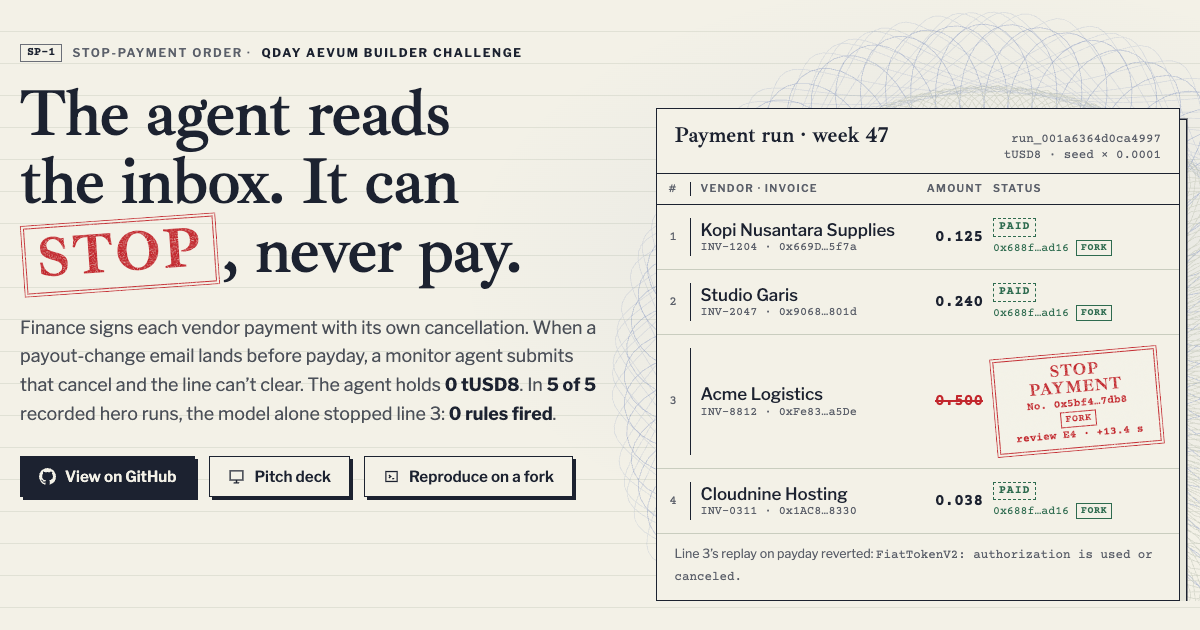
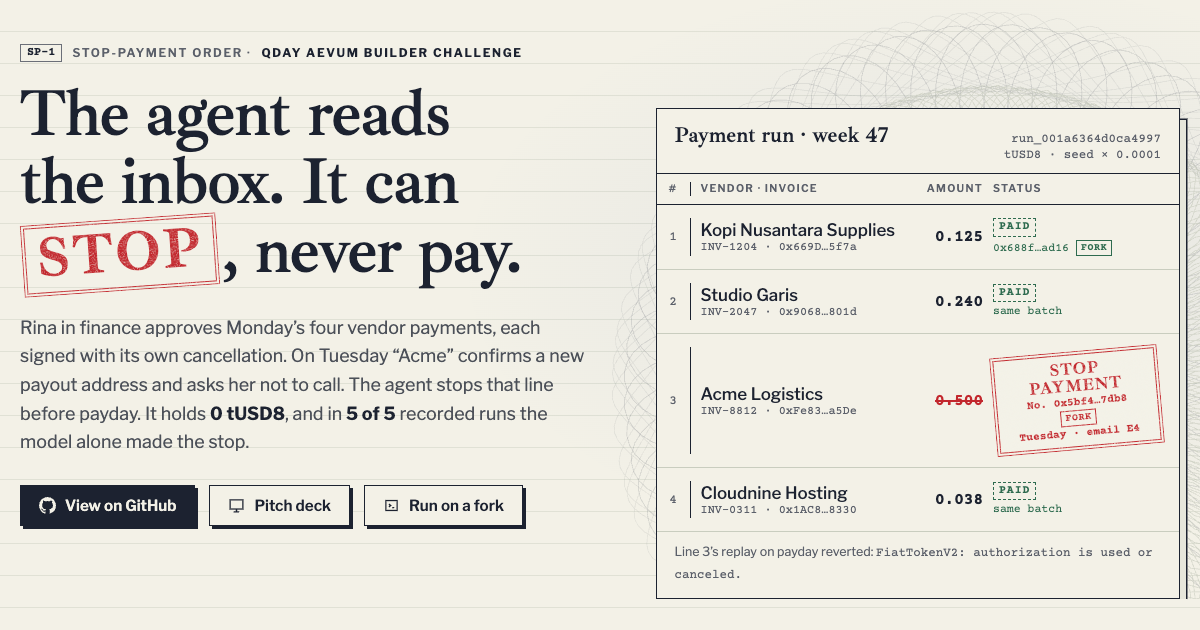
docs: landing + deck QA round 2 fixes
- hero subhead opens on the scenario (Rina, Acme's payout-change email); one-line fork disclosure
- stamp drops the since-start timer that read as a latency figure; lines 2 and 4 say 'same batch'
- '5 of 5' cites evidence/g4/hero-sonnet-5-5-cli.json; no ungreppable hash in the caption
- colour = state only (neutral deck margin rule and guilloche, ink check marks)
- deck slide 6: header + line-3 crop at full width, callouts on the serial and amount, run A / run B
- wording: payer cannot recall a landed payment; Rina in finance; re-issue with one click in demo mode;
  'Live, used on fork'; live run pending faucet funding (README lines 47 and 55 aligned)

diff --git a/docs/index.html b/docs/index.html
@@ -168,15 +168,14 @@ code, .data { font-family: var(--font-data); font-variant-numeric: tabular-nums;
 .rc { padding: 30px 22px 26px; border-right: 1px solid var(--rule); }
 .rc:first-child { padding-left: 0; } .rc:last-child { border-right: 0; }
 .rc .n { font: 700 clamp(2.4rem, 4.4vw, 3.6rem)/1 var(--font-data); font-variant-numeric: tabular-nums; letter-spacing: -.03em; }
-.rc .n.red { color: var(--after); }
-.rc .n.blue { color: var(--before); }
 .rc p { margin: 10px 0 8px; font-size: .95rem; line-height: 1.4; }
 .rc code { font-size: .72rem; color: var(--label); }
-.rnote { grid-column: 1 / -1; font-size: .8rem; color: var(--label); padding: 0 0 18px; margin: 0; max-width: 75ch; }
+.rnote { grid-column: 1 / -1; font-size: .8rem; color: var(--label); padding: 14px 0 18px; margin: 0; max-width: 75ch; }
 
 /* ── sections ── */
 section.blk { padding: 92px 0; }
 section[id] { scroll-margin-top: 62px; }
+section.blk.tight { padding-top: 20px; }
 .blk h2 { font: 600 clamp(2rem, 3.8vw, 3.2rem)/1.08 var(--font-display); letter-spacing: -.015em; margin: 12px 0 16px; text-wrap: balance; max-width: 22em; }
 .blk .lede { max-width: var(--measure); color: var(--ink-soft); font-size: 1.06rem; margin: 0 0 40px; }
 
@@ -245,7 +244,7 @@ figure { margin: 0; }
 .slip b { display: block; font: 600 .66rem/1.4 var(--font-body); letter-spacing: .12em; text-transform: uppercase; color: var(--label); }
 .slip.pay { border-left: 3px solid var(--before); } .slip.cx { border-left: 3px solid var(--after); }
 .powers { list-style: none; padding: 0; margin: 4px 0; font: .82rem/1.9 var(--font-data); }
-.powers li::before { content: "✓ "; color: color-mix(in srgb, var(--bg) 60%, var(--cleared)); }
+.powers li::before { content: "✓ "; color: var(--bg); }
 .powers li.x::before { content: "✗ "; color: color-mix(in srgb, var(--after) 55%, var(--bg)); }
 .icon { width: 38px; height: 38px; stroke: currentColor; fill: none; stroke-width: 1.6; }
 
@@ -371,11 +370,11 @@ figure.shot figcaption b { display: block; font: 600 1rem/1.3 var(--font-display
     <div class="copy">
       <div class="label"><span class="no">SP-1</span> <span class="opt">Stop-payment order ·</span> <b>QDay Aevum Builder Challenge</b></div>
       <h1>The agent reads the inbox. It can <span class="nw"><span class="stamp">stop</span>,</span> never pay.</h1>
-      <p class="sub">Finance signs each vendor payment with its own cancellation. When a payout-change email lands before payday, a monitor agent submits that cancel and the line can’t clear. The agent holds <strong>0 tUSD8</strong>. In <strong>5 of 5</strong> recorded hero runs, the model alone stopped line 3: <strong>0 rules fired</strong>.</p>
+      <p class="sub">Rina in finance approves Monday’s four vendor payments, each signed with its own cancellation. On Tuesday “Acme” confirms a new payout address and asks her not to call. The agent stops that line before payday. It holds <strong>0 tUSD8</strong>, and in <strong>5 of 5</strong> recorded runs the model alone made the stop.</p>
       <div class="ctas">
         <a class="btn primary" href="https://github.com/edycutjong/brake"><svg viewBox="0 0 16 16" fill="currentColor" aria-hidden="true"><path d="M8 0C3.58 0 0 3.58 0 8c0 3.54 2.29 6.53 5.47 7.59.4.07.55-.17.55-.38 0-.19-.01-.82-.01-1.49-2.01.37-2.53-.49-2.69-.94-.09-.23-.48-.94-.82-1.13-.28-.15-.68-.52-.01-.53.63-.01 1.08.58 1.23.82.72 1.21 1.87.87 2.33.66.07-.52.28-.87.51-1.07-1.78-.2-3.64-.89-3.64-3.95 0-.87.31-1.59.82-2.15-.08-.2-.36-1.02.08-2.12 0 0 .67-.21 2.2.82.64-.18 1.32-.27 2-.27.68 0 1.36.09 2 .27 1.53-1.04 2.2-.82 2.2-.82.44 1.1.16 1.92.08 2.12.51.56.82 1.27.82 2.15 0 3.07-1.87 3.75-3.65 3.95.29.25.54.73.54 1.48 0 1.07-.01 1.93-.01 2.2 0 .21.15.46.55.38A8.013 8.013 0 0016 8c0-4.42-3.58-8-8-8z"/></svg>View on GitHub</a>
         <a class="btn" href="pitch/"><svg viewBox="0 0 24 24" fill="none" stroke="currentColor" stroke-width="1.8" aria-hidden="true"><rect x="3" y="4" width="18" height="13"/><path d="M12 17v4M8 21h8"/></svg>Pitch deck</a>
-        <a class="btn" href="https://github.com/edycutjong/brake/blob/main/DEMO.md"><svg viewBox="0 0 24 24" fill="none" stroke="currentColor" stroke-width="1.8" aria-hidden="true"><path d="M4 5h16v14H4z"/><path d="M8 10l3 2-3 2M13 15h3"/></svg>Reproduce on a fork</a>
+        <a class="btn" href="https://github.com/edycutjong/brake/blob/main/DEMO.md"><svg viewBox="0 0 24 24" fill="none" stroke="currentColor" stroke-width="1.8" aria-hidden="true"><path d="M4 5h16v14H4z"/><path d="M8 10l3 2-3 2M13 15h3"/></svg>Run on a fork</a>
       </div>
     </div>
     <div class="meta">
@@ -383,17 +382,17 @@ figure.shot figcaption b { display: block; font: 600 1rem/1.3 var(--font-display
         <span class="cmd"><span id="cmdtext">pnpm fork:up &amp;&amp; pnpm demo:hero</span><button type="button" id="copy" aria-label="Copy the demo command">Copy</button></span>
         <span>121 tests · 0 agent-initiated transfers</span>
       </div>
-      <p class="status">Built and tested on an anvil fork of Aevum 44005 at real tUSD8 state. The live testnet run is scripted and waits on faucet funding, so every transaction hash on this page is labelled <span class="fork">FORK</span> and has no explorer link. The footer links only the live tUSD8 address.</p>
+      <p class="status">Ran on an anvil fork of Aevum 44005: transaction hashes are labelled <span class="fork">FORK</span> (<code>fork:</code> in the terminal) and have no explorer link. The live testnet run is pending faucet funding.</p>
     </div>
 
     <div class="register" aria-label="Payment run, week 47, from evidence/hero-fork.json">
       <header><h2>Payment run · week 47</h2><span>run_001a6364d0ca4997<br>tUSD8 · seed × 0.0001</span></header>
       <div class="rl head"><span>#</span><span>Vendor · invoice</span><span style="text-align:right">Amount</span><span>Status</span></div>
       <div class="rl"><span>1</span><span class="v">Kopi Nusantara Supplies<small>INV-1204 · 0x669D…5f7a</small></span><span class="amt">0.125</span><span class="st"><span class="paid">PAID</span><span class="h">0x688f…ad16 <span class="fork">FORK</span></span></span></div>
-      <div class="rl"><span>2</span><span class="v">Studio Garis<small>INV-2047 · 0x9068…801d</small></span><span class="amt">0.240</span><span class="st"><span class="paid">PAID</span><span class="h">0x688f…ad16 <span class="fork">FORK</span></span></span></div>
+      <div class="rl"><span>2</span><span class="v">Studio Garis<small>INV-2047 · 0x9068…801d</small></span><span class="amt">0.240</span><span class="st"><span class="paid">PAID</span><span class="h">same batch</span></span></div>
       <div class="rl stopped"><span>3</span><span class="v">Acme Logistics<small>INV-8812 · 0xFe83…a5De</small></span><span class="amt">0.500</span>
-        <span class="stamp bigstamp" role="img" aria-label="Stop payment, cancel tx 0x5bf4…7db8 on the fork">Stop payment<small>No. 0x5bf4…7db8 <span class="fork">FORK</span></small><small>review E4 · +13.4 s</small></span></div>
-      <div class="rl"><span>4</span><span class="v">Cloudnine Hosting<small>INV-0311 · 0x1AC8…8330</small></span><span class="amt">0.038</span><span class="st"><span class="paid">PAID</span><span class="h">0x688f…ad16 <span class="fork">FORK</span></span></span></div>
+        <span class="stamp bigstamp" role="img" aria-label="Stop payment, cancel tx 0x5bf4…7db8 on the fork">Stop payment<small>No. 0x5bf4…7db8 <span class="fork">FORK</span></small><small>Tuesday · email E4</small></span></div>
+      <div class="rl"><span>4</span><span class="v">Cloudnine Hosting<small>INV-0311 · 0x1AC8…8330</small></span><span class="amt">0.038</span><span class="st"><span class="paid">PAID</span><span class="h">same batch</span></span></div>
       <footer>Line 3’s replay on payday reverted: <code>FiatTokenV2: authorization is used or canceled.</code></footer>
     </div>
   </div>
@@ -405,7 +404,7 @@ figure.shot figcaption b { display: block; font: 600 1rem/1.3 var(--font-display
     <div class="rc"><div class="n" data-count="0">0</div><p>agent-initiated transfers. The agent holds no tUSD8 and no allowance.</p><code>bench/results.json</code></div>
     <div class="rc"><div class="n" data-count="4.1" data-dec="1" data-suffix=" s">4.1 s</div><p>median, vendor email to cancel confirmed (p95 6.3 s, n = 11, fork, commit 494c2a6)</p><code>bench/results.json</code></div>
     <div class="rc"><div class="n" data-count="25" data-suffix="/25">25/25</div><p>injection-suite emails decided correctly by the model (rules alone: 6). n = 25, a regression suite.</p><code>evidence/g4/ · README</code></div>
-    <p class="rnote">Model numbers were measured with claude-sonnet-5-5 through a local CLI adapter at commit dbb1acb and latency at 494c2a6, both before the architecture review’s changes; re-measuring them is on the roadmap. Four collateral stops (lines whose on-file payee is the fraud wallet) are reported per row in the README.</p>
+    <p class="rnote">5 of 5: <code>evidence/g4/hero-sonnet-5-5-cli.json</code>. Model numbers were measured with claude-sonnet-5-5 through a local CLI adapter at commit dbb1acb and latency at 494c2a6, both before the architecture review’s changes; re-measuring them is on the roadmap. Four collateral stops (lines whose on-file payee is the fraud wallet) are reported per row in the README.</p>
   </div>
 </section>
 
@@ -418,7 +417,7 @@ figure.shot figcaption b { display: block; font: 600 1rem/1.3 var(--font-display
       <figure class="frame">
         <div class="bar"><i></i><i></i><i></i><span>Run sheet · line 3 stopped · separate fork run</span></div>
         <picture><source media="(max-width: 640px)" srcset="assets/demo-line3-mobile.png" width="680" height="220"><img src="assets/demo-line3.png" width="1150" height="480" alt="Brake run sheet: lines 1 and 2 scheduled and allowed; line 3, Acme Logistics, 0.5 tUSD8, struck through under a red STOP PAYMENT stamp labelled FORK." loading="lazy"></picture>
-        <figcaption>The real run sheet after the agent’s stop, from a separate fork run (stamp No. 0xf1aa…6043). The register above and the terminal use <code>evidence/hero-fork.json</code>.</figcaption>
+        <figcaption>The real run sheet after the agent’s stop, from a separate fork run; its stamp carries that run’s cancel tx. The register above and the terminal use <code>evidence/hero-fork.json</code>.</figcaption>
       </figure>
       <div class="tape">
         <div class="tbar"><span>pnpm demo:hero · fork</span><button class="btn sm" type="button" id="replay">Replay</button></div>
@@ -439,7 +438,7 @@ figure.shot figcaption b { display: block; font: 600 1rem/1.3 var(--font-display
   </div>
 </section>
 
-<section class="blk" id="how" style="padding-top:20px">
+<section class="blk tight" id="how">
   <div class="wrap">
     <div class="label"><span class="no">L-03</span> How it works</div>
     <h2>One payment run, three days</h2>
@@ -457,7 +456,7 @@ figure.shot figcaption b { display: block; font: 600 1rem/1.3 var(--font-display
       </div>
       <div class="day">
         <div class="d">Payday<small>pay and prove</small></div>
-        <div><h3>One batch pays; the stopped line cannot clear</h3><p>Multicall3 pays every allowed line in one transaction. The stopped line is replayed and reverts with the token’s own error. After a phone check (simulated in the demo), finance re-issues it to the vendor’s verified wallet in one click.</p></div>
+        <div><h3>One batch pays; the stopped line cannot clear</h3><p>Multicall3 pays every allowed line in one transaction. The stopped line is replayed and reverts with the token’s own error. After a phone check (simulated in the demo), finance re-issues it to the vendor’s on-file wallet with one click in demo mode.</p></div>
         <div class="act green">Multicall3.aggregate3<br>replay → authorization is used or canceled</div>
       </div>
     </div>
@@ -532,7 +531,7 @@ figure.shot figcaption b { display: block; font: 600 1rem/1.3 var(--font-display
     <div class="label"><span class="no">L-05</span> Questions a judge would ask</div>
     <h2>Before you score it</h2>
     <div class="faq">
-      <details><summary><span class="q">Q1</span>Is this running on the live Aevum chain?<span class="pm">+</span></summary><div class="a"><p>Not yet. The testnet wallets were unfunded at build time, so every transaction ran on an anvil fork of Aevum 44005, which carries the live tUSD8 bytecode and state. The live re-run (deploy, explorer verification, hero, TOO LATE, flood) is a scripted first step once the faucet funds the wallets.</p></div></details>
+      <details><summary><span class="q">Q1</span>Is this running on the live Aevum chain?<span class="pm">+</span></summary><div class="a"><p>Not yet. The live run is pending faucet funding, so every transaction ran on an anvil fork of Aevum 44005, which carries the live tUSD8 bytecode and state. The live re-run (deploy, explorer verification, hero, TOO LATE, flood) is a scripted first step once the faucet funds the wallets.</p></div></details>
       <details><summary><span class="q">Q2</span>What happens if the agent itself is hijacked?<span class="pm">+</span></summary><div class="a"><p>It can delay a run: cancel up to <code>maxStops</code> lines (set per run by the payer) and hold lines. It cannot create a payment or change where one goes. Each stop is re-issuable, one payer <code>allow</code> releases a hold, and <code>revokeAgent</code> blocks Brake-routed stops at once.</p></div></details>
       <details><summary><span class="q">Q3</span>Anyone can submit the cancel. Isn’t that a hole?<span class="pm">+</span></summary><div class="a"><p>It is the mechanism: tUSD8 accepts a payer-signed cancel from any caller, which is what lets an agent with no funds stop a payment (G1, 7 fork tests). The stop budget binds only the Brake path, and the README says so: anyone holding a raw cancel signature can submit it to tUSD8 directly.</p></div></details>
       <details><summary><span class="q">Q4</span>What is mocked or simulated?<span class="pm">+</span></summary><div class="a"><p>Demo mode uses a labelled custodial testnet payer; <code>scripts/sign_local.ts</code> is the mode where your key signs. Seed emails are authored demo data, amounts are seed invoices × 0.0001 for the faucet, the vendor phone check in the re-issue step is simulated, and the model ran through a local CLI adapter (the SDK path was not measured).</p></div></details>
@@ -573,7 +572,7 @@ figure.shot figcaption b { display: block; font: 600 1rem/1.3 var(--font-display
       }
       return p;
     };
-    [[300, 52, 118, 13, 2600, 'var(--before)', .32], [250, 37, 92, 37, 3200, 'var(--rule)', .9], [410, 72, 40, 18, 2400, 'var(--before)', .16]].forEach(([R, r, d, turns, steps, c, o]) => {
+    [[300, 52, 118, 13, 2600, 'var(--muted)', .3], [250, 37, 92, 37, 3200, 'var(--rule)', .9], [410, 72, 40, 18, 2400, 'var(--muted)', .16]].forEach(([R, r, d, turns, steps, c, o]) => {
       const path = document.createElementNS(NS, 'path');
       path.setAttribute('d', curve(R, r, d, turns, steps));
       path.setAttribute('fill', 'none'); path.setAttribute('stroke', c); path.setAttribute('stroke-width', '.7'); path.setAttribute('opacity', o);
@@ -610,7 +609,7 @@ figure.shot figcaption b { display: block; font: 600 1rem/1.3 var(--font-display
   }, { threshold: .6 });
   counts.forEach((c) => countIO.observe(c));
 
-  // terminal replay of the recorded run (~8x faster than the recording)
+  // terminal replay of the recorded run (~7x faster than the recording)
   const term = document.getElementById('term');
   const lines = term ? [...term.querySelectorAll('.tl')] : [];
   const at = [0, 0, .3, 1.5, 6.5, 6.5, 13.4, 13.4, 44.5, 44.5, 46.7, 63.3, 64.4];

diff --git a/docs/pitch/index.html b/docs/pitch/index.html
@@ -3,7 +3,7 @@
   Brake: pitch deck (v1.0 · 2026-11-16)
   Keys: → / Space next · ← previous · Home / End · Esc slide overview · P presenter mode (speaker notes)
   Print: Cmd/Ctrl+P → Save as PDF → one slide per page (16in × 9in), backgrounds on.
-  Images: ../assets/demo-line3.png, a crop of the real run sheet (line 3 stopped) from a fork run, labelled FORK.
+  Images: ../assets/demo-line3-deck.png (header + line 3), a crop of the real run sheet (line 3 stopped) from a fork run, labelled FORK.
   Fonts: ../assets/fonts/ (self-hosted, SIL OFL 1.1, see LICENSE-fonts.txt).
   QR: inline SVG, encodes https://github.com/edycutjong/brake (decoded and checked at build time).
   Tokens: the same :root as ../index.html.
@@ -62,7 +62,8 @@ code, .data { font-family: var(--font-data); font-variant-numeric: tabular-nums;
   background-image: repeating-linear-gradient(to bottom, transparent 0 47px, color-mix(in srgb, var(--rule) 50%, transparent) 47px 48px);
 }
 .slide.on { display: flex; flex-direction: column; justify-content: center; }
-.slide::before { content: ""; position: absolute; left: 96px; top: 0; bottom: 0; width: 2px; background: color-mix(in srgb, var(--after) 35%, transparent); z-index: -1; }
+.slide.s-demo.on { justify-content: flex-start; padding-top: 172px; }
+.slide::before { content: ""; position: absolute; left: 96px; top: 0; bottom: 0; width: 2px; background: var(--rule); z-index: -1; }
 .lbl { position: absolute; top: 96px; left: 128px; font: 600 24px/1 var(--font-body); letter-spacing: .14em; text-transform: uppercase; color: var(--label); display: flex; gap: 16px; align-items: center; }
 .lbl .no { font-family: var(--font-data); letter-spacing: 0; border: 1.5px solid var(--muted); padding: 3px 10px; color: var(--ink); }
 h1, h2 { font-family: var(--font-display); font-weight: 600; letter-spacing: -.02em; margin: 0; }
@@ -123,11 +124,12 @@ h2 { font-size: 120px; line-height: 1.03; margin: 0 0 44px; }
 .flow text { font-family: var(--font-body); }
 
 /* s6 demo */
-.demo-grid { display: grid; grid-template-columns: 1.3fr .7fr; gap: 56px; margin-top: 12px; align-items: start; }
+.demo-grid { display: grid; grid-template-columns: 760px 1fr; gap: 56px; margin-top: 36px; align-items: start; max-width: 1340px; }
+.demo-full { margin-top: 0; max-width: 1340px; }
 .pic { position: relative; }
 .callout { position: absolute; width: 56px; height: 56px; border-radius: 50%; background: var(--ink); color: var(--bg); font: 700 28px/56px var(--font-data); text-align: center; box-shadow: 0 0 0 5px var(--bg); }
 .callout.red { background: var(--after); }
-.keys { list-style: none; padding: 0; margin: 40px 0 0; display: grid; gap: 22px; font: 32px/1.35 var(--font-body); }
+.keys { list-style: none; padding: 0; margin: 10px 0 0; display: grid; gap: 22px; font: 32px/1.35 var(--font-body); }
 .keys li { display: grid; grid-template-columns: 56px 1fr; gap: 16px; align-items: start; }
 .keys li span { width: 44px; height: 44px; border-radius: 50%; background: var(--ink); color: var(--bg); font: 700 22px/44px var(--font-data); text-align: center; }
 .keys li span.red { background: var(--after); }
@@ -138,7 +140,7 @@ h2 { font-size: 120px; line-height: 1.03; margin: 0 0 44px; }
 .ledger > div + div { border-left: 3px solid var(--ink); background: var(--paper-2); }
 .ledger h3 { font: 600 26px/1 var(--font-body); letter-spacing: .14em; text-transform: uppercase; color: var(--label); margin: 0 0 22px; }
 .ledger ul { list-style: none; margin: 0; padding: 0; font: 60px/1.7 var(--font-data); }
-.ledger .can li::before { content: "✓  "; color: var(--cleared); }
+.ledger .can li::before { content: "✓  "; color: var(--ink); }
 .ledger .cannot li { color: var(--after); text-decoration: line-through 3px; }
 .ledger .cannot li span { color: var(--ink-soft); }
 
@@ -231,9 +233,9 @@ body.overview #grid { display: grid; }
 <section class="slide hook" data-title="Hook">
   <div class="lbl"><span class="no">L-02</span> Business email compromise, 2024</div>
   <div class="big rise"><span class="cur">$</span>2,770,151,146</div>
-  <p class="body rise d2">in reported losses across <b>21,442 complaints</b> to the FBI’s IC3. On a stablecoin chain, a paid line is final.</p>
+  <p class="body rise d2">in reported losses across <b>21,442 complaints</b> to the FBI’s IC3. Once a stablecoin payment lands, the payer cannot recall it.</p>
   <p class="src">Source: FBI IC3 2024 Internet Crime Report, complaint and loss tables</p>
-  <aside class="speaker-notes">The attack is mundane: a vendor's mailbox says the bank details changed. On a stablecoin chain a paid line is final, so the only safe moment to act is before payday. That is the gap Brake closes.</aside>
+  <aside class="speaker-notes">The attack is mundane: a vendor's mailbox says the bank details changed. Once a payment lands there is no recall, so the only safe moment to act is before payday. That is the gap Brake closes.</aside>
 </section>
 
 <!-- 3 · PROBLEM -->
@@ -243,11 +245,11 @@ body.overview #grid { display: grid; }
   <h2 class="rise">Signed Monday. Wrong by Tuesday.</h2>
   <p class="body rise d2">Today, stopping it needs the key holder online.</p></div>
   <div class="days3 rise d3">
-    <div><b>Monday</b><span>Rina, the AP clerk, signs four vendor lines.</span></div>
+    <div><b>Monday</b><span>Rina, in finance, approves four vendor lines.</span></div>
     <div><b class="red">Tuesday</b><span>“Acme” confirms a new payout address.</span></div>
     <div><b>Payday</b><span>The line pays wherever it points.</span></div>
   </div></div>
-  <aside class="speaker-notes">Rina is our persona, an AP clerk. She approves on Monday, the fraud arrives Tuesday, and she is in meetings. Today her choices are to stay online with the key, or to hand a bot a key that can pay.</aside>
+  <aside class="speaker-notes">Rina is the finance contact our seed emails are addressed to. She approves on Monday, the fraud arrives Tuesday, and she is in meetings. Today her choices are to stay online with the key, or to hand a bot a key that can pay.</aside>
 </section>
 
 <!-- 4 · SOLUTION -->
@@ -297,16 +299,14 @@ body.overview #grid { display: grid; }
 </section>
 
 <!-- 6 · DEMO -->
-<section class="slide" data-title="Demo">
+<section class="slide s-demo" data-title="Demo">
   <div class="lbl"><span class="no">L-06</span> The hero run · fork</div>
-  <h2 class="rise" style="margin:20px 0 34px">Line 3 never cleared.</h2>
+  <h2 class="rise" style="margin:0 0 30px">Line 3 never cleared.</h2>
+  <div class="frame rise d2 demo-full"><div class="bar"><i></i><i></i><i></i>&nbsp; fork run B</div><div class="pic"><img src="../assets/demo-line3-deck.png" alt="Run sheet with line 3, Acme Logistics, struck through under a red STOP PAYMENT stamp.">
+      <span class="callout red" style="left:calc(77.6% - 28px);top:calc(66% - 28px)">1</span><span class="callout" style="left:calc(56.2% - 28px);top:calc(33% - 28px)">2</span></div></div>
   <div class="demo-grid">
-    <div class="frame rise d2"><div class="bar"><i></i><i></i><i></i>&nbsp; separate fork run</div><div class="pic"><img src="../assets/demo-line3.png" alt="Run sheet with line 3, Acme Logistics, struck through under a red STOP PAYMENT stamp.">
-      <span class="callout red" style="left:calc(79.6% - 66px);top:calc(81% - 28px)">1</span><span class="callout" style="left:calc(56.6% - 34px);top:calc(62.5% - 28px)">2</span></div></div>
-    <div class="rise d3">
-      <div class="tape"><span class="cap">pnpm demo:hero</span><span class="t">+13.4s</span> line 3 <span class="no">STOP</span><br><span class="t">      </span> rules fired 0<br><span class="t">+44.5s</span> <span class="ok">paid [1, 2, 4]</span><br><span class="t">      </span> line 3 <span class="no">reverted</span></div>
-      <ul class="keys"><li><span class="red">1</span>Serial = the cancel tx.</li><li><span>2</span>Amount struck through.</li></ul>
-    </div>
+    <div class="tape rise d3"><span class="cap">fork run A</span><span class="t">+13.4s</span> line 3 <span class="no">STOP</span><br><span class="t">      </span> rules fired 0<br><span class="t">+44.5s</span> <span class="ok">paid [1, 2, 4]</span><br><span class="t">      </span> line 3 <span class="no">reverted</span></div>
+    <ul class="keys rise d3"><li><span class="red">1</span>Run B’s cancel tx.</li><li><span>2</span>Struck amount.</li></ul>
   </div>
   <aside class="speaker-notes">The screenshot is the real run sheet from a separate fork run; the timings come from evidence/hero-fork.json, recorded before the final contract change. The model alone stopped line 3; no rule fired. Payday paid the other three in one batch and the stopped line's replay reverted. The CLI run took 64 seconds.</aside>
 </section>
@@ -340,10 +340,10 @@ body.overview #grid { display: grid; }
 <!-- 9 · AEVUM -->
 <section class="slide" data-title="Built on Aevum">
   <div class="lbl"><span class="no">L-09</span> Aevum testnet 44005</div>
-  <h2 class="rise">Built on what is live.</h2>
+  <h2 class="rise">What we used on Aevum.</h2>
   <div class="cols3 rise d2">
-    <div><h3>Live, used</h3><ul><li>tUSD8 EIP-3009</li><li>isBlacklisted</li><li>Multicall3</li><li>CREATE2 deployer</li></ul></div>
-    <div><h3>Self-deployed (fork only)</h3><ul><li>ERC-8004 Identity</li><li>ERC-8004 Validation</li><li>Brake.sol</li></ul></div>
+    <div><h3>Live, used on fork</h3><ul><li>tUSD8 EIP-3009</li><li>isBlacklisted</li><li>Multicall3</li><li>CREATE2 deployer</li></ul></div>
+    <div><h3>Self-deployed (fork only)</h3><ul><li>8004 Identity</li><li>8004 Validation</li><li>Brake.sol</li></ul></div>
     <div class="not"><h3>Not live, not used</h3><ul><li>@qday-io/sdk</li><li>PQ precompiles</li><li>public bundler</li></ul></div>
   </div>
   <aside class="speaker-notes">We probed the chain with eth_getCode and eth_call before building. Everything Brake depends on is live on 44005, except ERC-8004, which we deploy ourselves from the reference contracts.</aside>

diff --git a/README.md b/README.md
@@ -44,7 +44,7 @@ Screens of the product running against a local anvil fork of Aevum 44005 (labell
 
 ### The Problem
 
-Finance teams approve vendor payments days before payday, and things change in between: an invoice is disputed, goods do not arrive, or a "we changed our bank details" email turns out to be fraud. Business email compromise drew $2,770,151,146 in reported losses across 21,442 complaints to the FBI's IC3 in 2024 ([FBI IC3 2024 Internet Crime Report](https://www.ic3.gov/AnnualReport/Reports/2024_IC3Report.pdf), complaint and loss tables). On a stablecoin chain a paid line is final. Today, stopping a scheduled crypto payment needs the key holder online, and giving a bot a key that can pay means a hijacked bot can pay.
+Finance teams approve vendor payments days before payday, and things change in between: an invoice is disputed, goods do not arrive, or a "we changed our bank details" email turns out to be fraud. Business email compromise drew $2,770,151,146 in reported losses across 21,442 complaints to the FBI's IC3 in 2024 ([FBI IC3 2024 Internet Crime Report](https://www.ic3.gov/AnnualReport/Reports/2024_IC3Report.pdf), complaint and loss tables). On a stablecoin chain the payer cannot recall a payment once it lands. Today, stopping a scheduled crypto payment needs the key holder online, and giving a bot a key that can pay means a hijacked bot can pay.
 
 ### The Solution
 
@@ -52,7 +52,7 @@ For every line of a payment run, finance signs two EIP-712 messages once: the pa
 
 - **Stop:** the `Brake` contract submits the pre-signed cancel to tUSD8 with a reason code and an evidence hash, and records the decision in an ERC-8004 Validation Registry. The paid-line attempt on payday then reverts with the token's own error (`FiatTokenV2: authorization is used or canceled.`).
 - **Hold:** Brake's keeper will not pay the line until finance decides, and the hold is recorded on-chain; one payer `allow` releases it without re-signing. A hold is not a token-level block: the signed payment stays valid at tUSD8 until `validBefore`, so a confirmed risk is a `stop`.
-- **Re-issue:** finance replaces a falsely stopped line in one click.
+- **Re-issue:** finance replaces a falsely stopped line in one click (demo mode; a non-custodial run re-signs from the payer's own wallet).
 
 The agent holds 0 tUSD8 and no allowance (checked on `/verify`). A hijacked agent can delay a payment; it cannot create one or change where one goes. Brake does not claim to stop BEC in general. It stops a signed line when a signal arrives before payday (see [Honest Limitations](#attacks-defeated-and-honest-limitations)).
 
